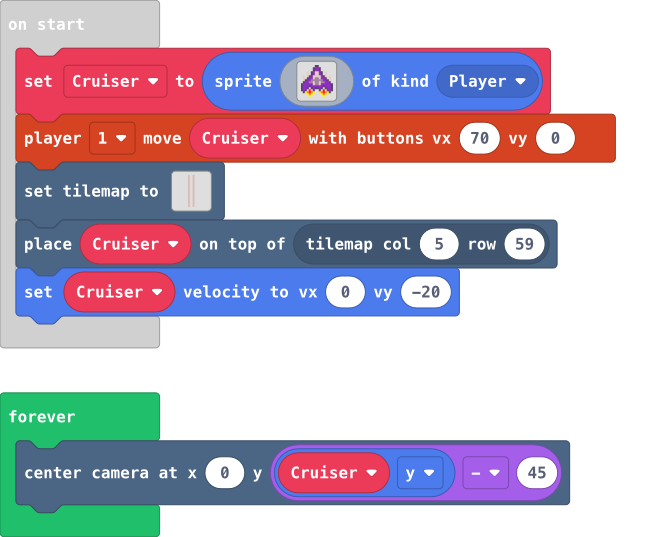
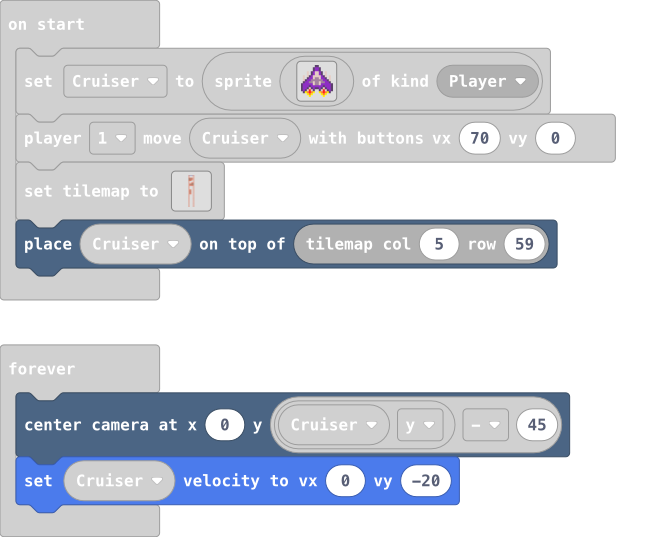
Update main.blocks, main.ts, tilemap.g.jres, tilemap.g.ts

diff --git a/tilemap.g.ts b/tilemap.g.ts
@@ -14,11 +14,70 @@ namespace myTiles {
     export const tile6 = image.ofBuffer(hex``);
     //% fixedInstance jres blockIdentity=images._tile
     export const tile7 = image.ofBuffer(hex``);
+    //% fixedInstance jres blockIdentity=images._tile
+    export const tile2 = image.ofBuffer(hex``);
+    //% fixedInstance jres blockIdentity=images._tile
+    export const tile8 = image.ofBuffer(hex``);
+    //% fixedInstance jres blockIdentity=images._tile
+    export const tile9 = image.ofBuffer(hex``);
+    //% fixedInstance jres blockIdentity=images._tile
+    export const tile10 = image.ofBuffer(hex``);
+    //% fixedInstance jres blockIdentity=images._tile
+    export const tile11 = image.ofBuffer(hex``);
+    //% fixedInstance jres blockIdentity=images._tile
+    export const tile12 = image.ofBuffer(hex``);
+    //% fixedInstance jres blockIdentity=images._tile
+    export const tile13 = image.ofBuffer(hex``);
+    //% fixedInstance jres blockIdentity=images._tile
+    export const tile14 = image.ofBuffer(hex``);
+    //% fixedInstance jres blockIdentity=images._tile
+    export const tile15 = image.ofBuffer(hex``);
+    //% fixedInstance jres blockIdentity=images._tile
+    export const tile16 = image.ofBuffer(hex``);
+    //% fixedInstance jres blockIdentity=images._tile
+    export const tile17 = image.ofBuffer(hex``);
+    //% fixedInstance jres blockIdentity=images._tile
+    export const tile18 = image.ofBuffer(hex``);
 
     helpers._registerFactory("tilemap", function(name: string) {
         switch(helpers.stringTrim(name)) {
             case "level1 -":
[2 lines of base64/hex data omitted]
+..........
+..........
+..........
+..........
+..........
+..........
+2222222...
+2222222...
+22222.....
+22222.....
+..........
+..........
+..........
+..........
+..........
+......2222
+......2222
+...2222222
+...2222222
+..........
+..........
+..........
+..........
+..........
+..........
+..........
+..........
+..........
+...2......
+...2......
+...2......
+...2......
+...2......
+...2......
+...2......
 ..........
 ..........
 ..........
@@ -44,42 +103,7 @@ namespace myTiles {
 ..........
 ..........
 ..........
-..........
-..........
-..........
-..........
-..........
-..........
-..........
-..........
-..........
-..........
-..........
-..........
-..........
-..........
-..........
-..........
-..........
-..........
-..........
-..........
-..........
-..........
-..........
-..........
-..........
-..........
-..........
-..........
-..........
-..........
-..........
-..........
-..........
-..........
-..........
-`, [myTiles.transparency16,myTiles.tile1,myTiles.tile3,myTiles.tile4,myTiles.tile5,myTiles.tile6,myTiles.tile7], TileScale.Sixteen);
+`, [myTiles.transparency16,myTiles.tile1,myTiles.tile3,myTiles.tile4,myTiles.tile5,myTiles.tile6,myTiles.tile7,myTiles.tile2,myTiles.tile8,myTiles.tile9,myTiles.tile10,myTiles.tile11,myTiles.tile12,myTiles.tile13,myTiles.tile14,myTiles.tile15,myTiles.tile16,myTiles.tile17,myTiles.tile18], TileScale.Sixteen);
         }
         return null;
     })
@@ -99,6 +123,30 @@ namespace myTiles {
             case "tile6":return tile6;
             case "myTile5":
             case "tile7":return tile7;
+            case "myTile0":
+            case "tile2":return tile2;
+            case "myTile6":
+            case "tile8":return tile8;
+            case "myTile7":
+            case "tile9":return tile9;
+            case "myTile8":
+            case "tile10":return tile10;
+            case "myTile9":
+            case "tile11":return tile11;
+            case "myTile10":
+            case "tile12":return tile12;
+            case "myTile11":
+            case "tile13":return tile13;
+            case "myTile12":
+            case "tile14":return tile14;
+            case "myTile13":
+            case "tile15":return tile15;
+            case "myTile14":
+            case "tile16":return tile16;
+            case "myTile15":
+            case "tile17":return tile17;
+            case "myTile16":
+            case "tile18":return tile18;
         }
         return null;
     })

diff --git a/main.ts b/main.ts
@@ -2,7 +2,7 @@ let Cruiser = sprites.create(assets.image`-`, SpriteKind.Player)
 controller.player1.moveSprite(Cruiser, 70, 0)
 tiles.setTilemap(tilemap`level1 -`)
 tiles.placeOnTile(Cruiser, tiles.getTileLocation(5, 59))
-Cruiser.setVelocity(0, -20)
 forever(function () {
     scene.centerCameraAt(0, Cruiser.y - 45)
+    Cruiser.setVelocity(0, -20)
 })
